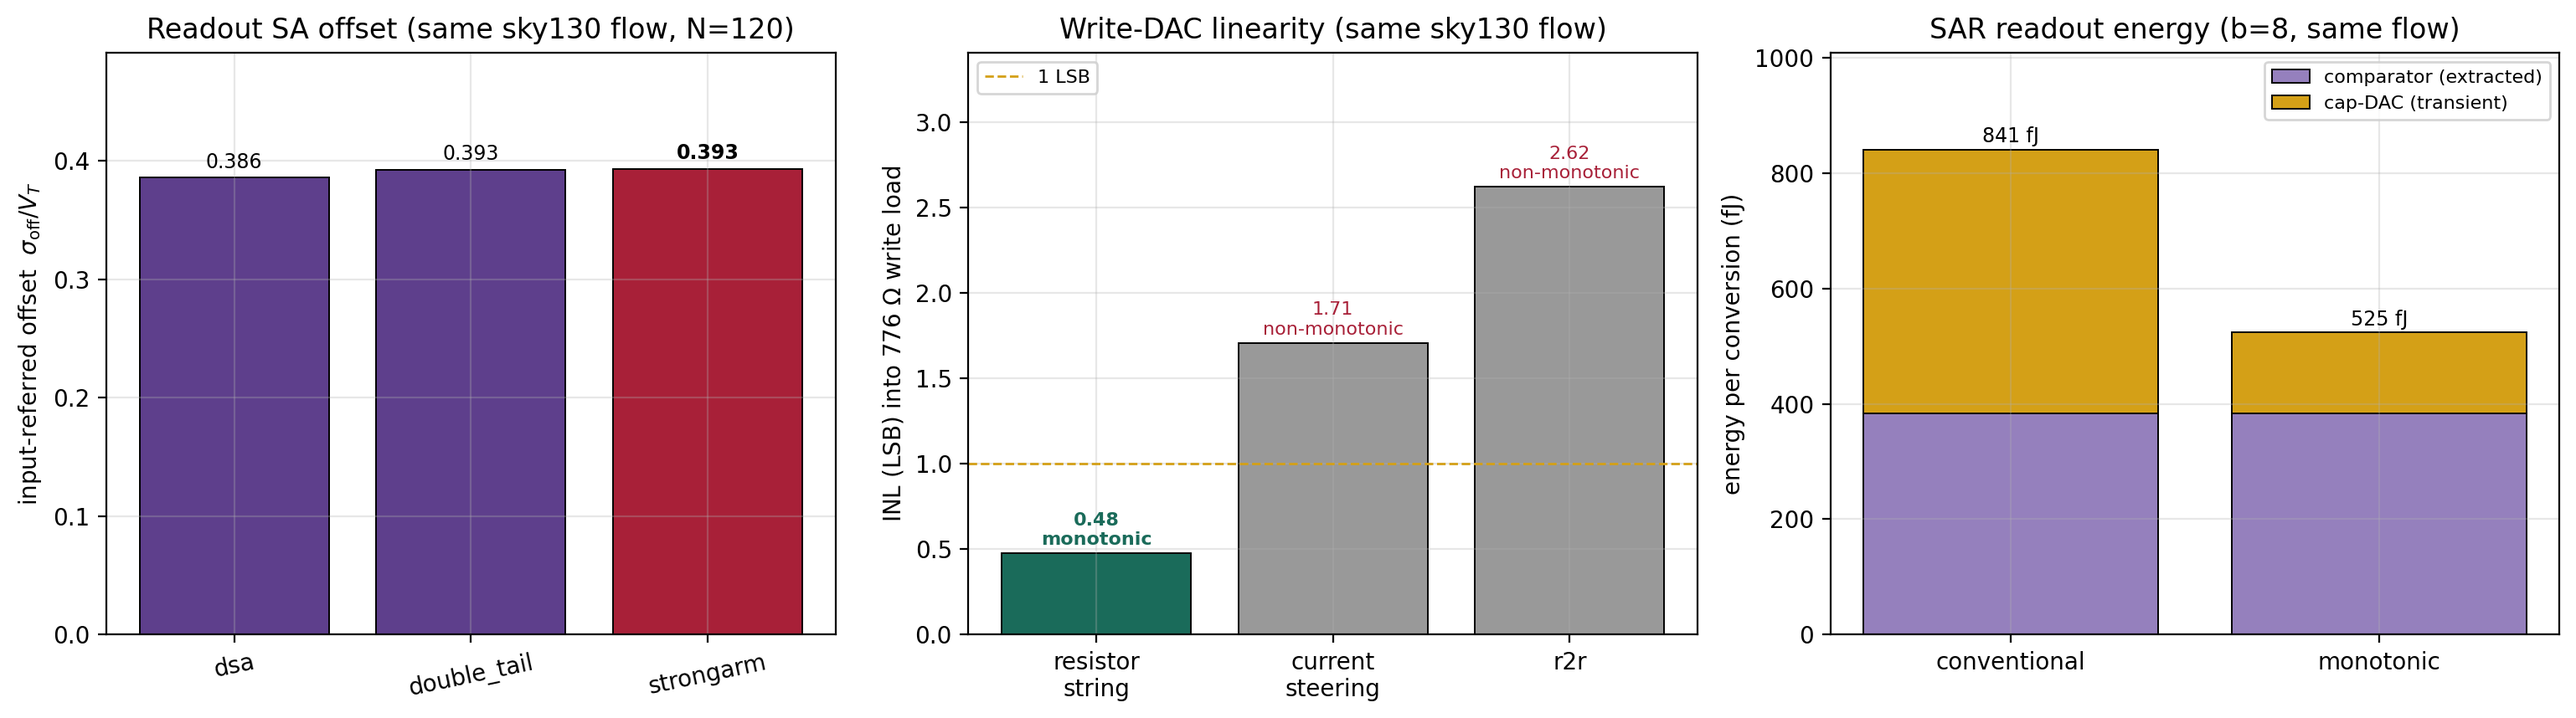
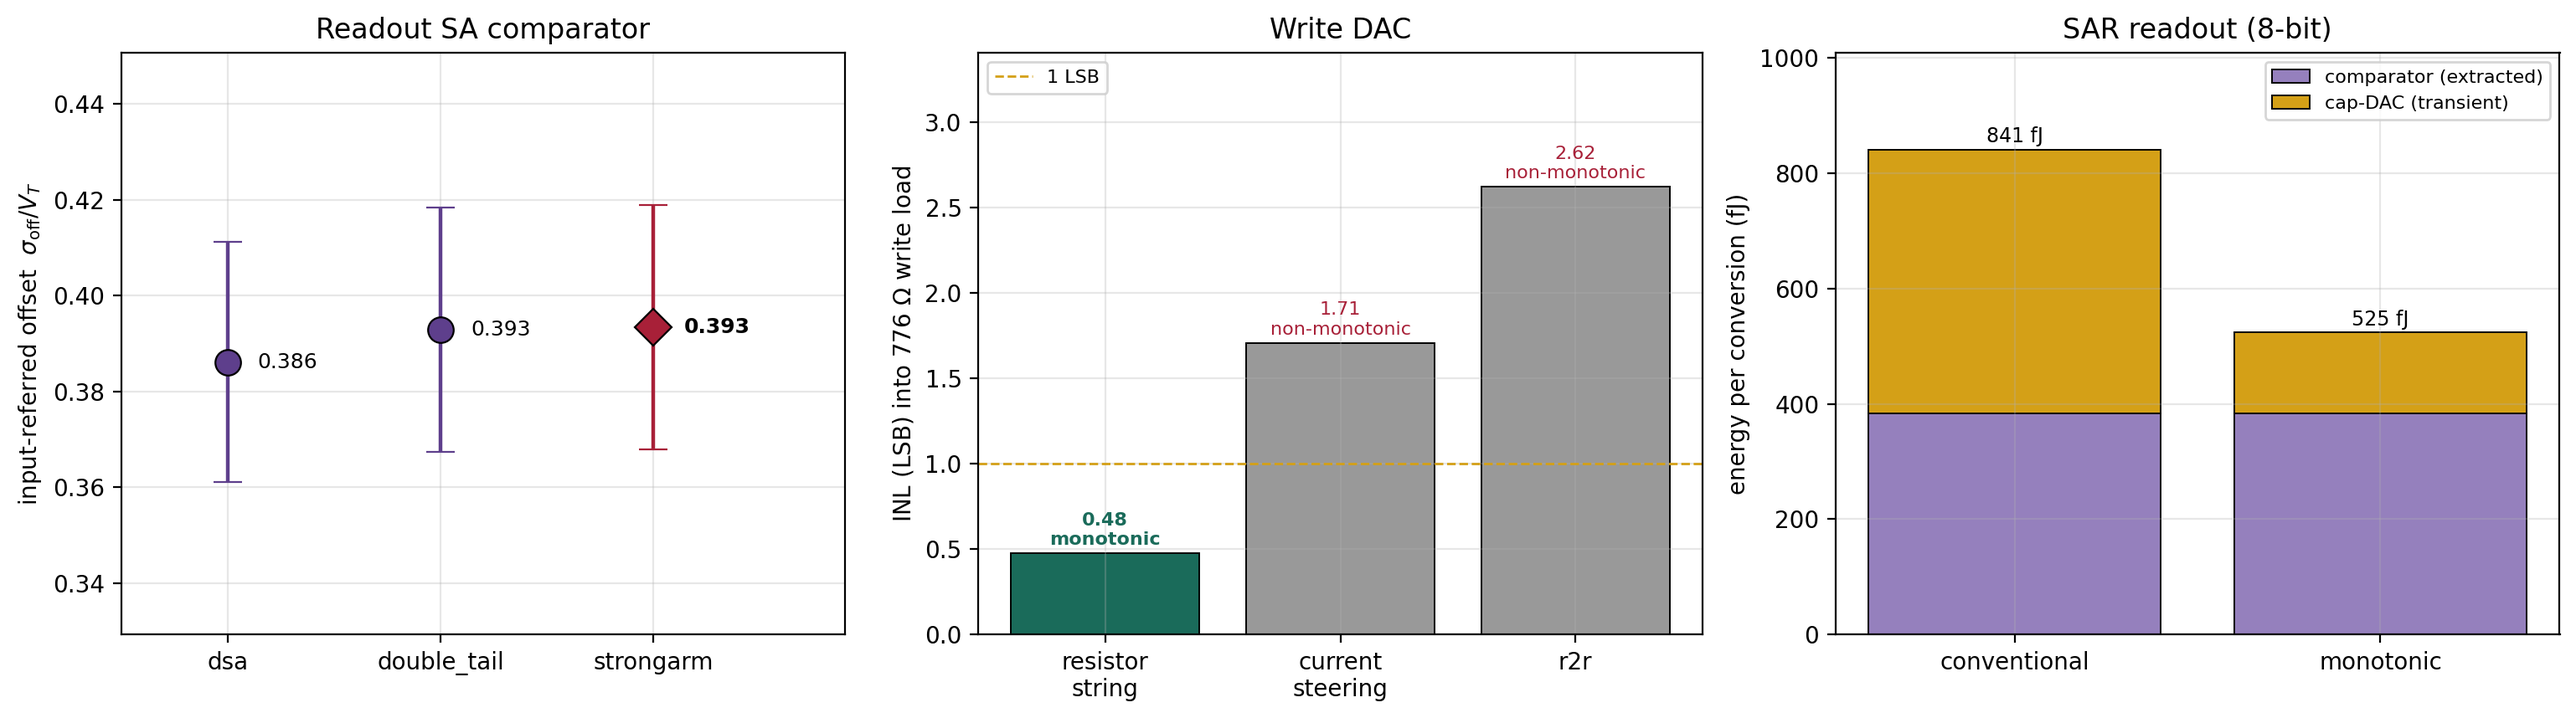
Refine comparison panels: zoomed error-bar point plot for SA + clean titles
Panel (a) was three near-equal bars (0.386/0.393/0.393) that read as flat. Replace
with a zoomed point plot carrying +/-1 s.e. error bars (s.e. of an estimated std =
sigma/sqrt(2(N-1))): the small means are now visible and the overlapping error bars
make the "statistically indistinguishable" finding explicit -- no fabricated gap.
Titles de-drafted to clean noun phrases (Readout SA comparator / Write DAC /
SAR readout (8-bit)); method/N go in the figure caption, not the panel title.

diff --git a/eda/design_survey/plot_comparison.py b/eda/design_survey/plot_comparison.py
@@ -31,18 +31,30 @@ def _ours_color(is_ours):
 
 
 def plot_readout_sa(ax):
+    # The three offsets are within MC noise of each other (~0.39), so bars from zero
+    # read as flat. A zoomed point plot with +/-1 s.e. error bars (s.e. of an estimated
+    # std = sigma/sqrt(2(N-1))) shows the small means AND that they overlap -> the honest
+    # "indistinguishable" message, not a fabricated gap.
     rows = d["readout_sa"]["designs"]
-    labels = [r["design"] for r in rows]
     vals = [r["sigma_offset_over_VT"] for r in rows]
-    cols = [_ours_color(r.get("is_ours")) for r in rows]
-    b = ax.bar(labels, vals, color=cols, edgecolor="black", linewidth=0.7)
-    for r, v in zip(rows, vals):
-        ax.text(labels.index(r["design"]), v + 0.008, f"{v:.3f}", ha="center", fontsize=8.5,
-                fontweight="bold" if r.get("is_ours") else "normal")
+    se = [v / (2 * (r["N"] - 1)) ** 0.5 for v, r in zip(vals, rows)]
+    xs = list(range(len(rows)))
+    for i, r in enumerate(rows):
+        ours = r.get("is_ours")
+        ax.errorbar(i, vals[i], yerr=se[i], fmt=("D" if ours else "o"),
+                    color=_ours_color(ours), ms=11, capsize=6, elinewidth=1.6,
+                    mec="black", mew=0.8, zorder=3)
+        ax.annotate(f"{vals[i]:.3f}", (i, vals[i]), textcoords="offset points",
+                    xytext=(13, 0), va="center", fontsize=9,
+                    fontweight="bold" if ours else "normal")
+    ax.set_xticks(xs)
+    ax.set_xticklabels([r["design"] for r in rows])
+    ax.set_xlim(-0.5, len(rows) - 0.1)
+    lo, hi = min(v - s for v, s in zip(vals, se)), max(v + s for v, s in zip(vals, se))
+    pad = (hi - lo) * 0.55
+    ax.set_ylim(lo - pad, hi + pad)
     ax.set_ylabel(r"input-referred offset  $\sigma_\mathrm{off}/V_T$")
-    ax.set_title("Readout SA offset (same sky130 flow, N=120)")
-    ax.set_ylim(0, max(vals) * 1.25)
-    ax.tick_params(axis="x", labelrotation=12)
+    ax.set_title("Readout SA comparator")
 
 
 def plot_write_dac(ax):
@@ -58,7 +70,7 @@ def plot_write_dac(ax):
                 fontweight="bold" if r.get("is_ours") else "normal")
     ax.axhline(1.0, color=GOLD, ls="--", lw=1, label="1 LSB")
     ax.set_ylabel("INL (LSB) into 776 $\\Omega$ write load")
-    ax.set_title("Write-DAC linearity (same sky130 flow)")
+    ax.set_title("Write DAC")
     ax.set_ylim(0, max(vals) * 1.3)
     ax.legend(fontsize=8, loc="upper left")
 
@@ -76,7 +88,7 @@ def plot_sar(ax):
         ax.text(i, r["E_total_fJ"] + 12, f"{r['E_total_fJ']:.0f} fJ", ha="center", fontsize=8.5)
     ax.set_xticks(list(x)); ax.set_xticklabels(labels)
     ax.set_ylabel("energy per conversion (fJ)")
-    ax.set_title(f"SAR readout energy (b={rows[0]['b']}, same flow)")
+    ax.set_title(f"SAR readout ({rows[0]['b']}-bit)")
     ax.set_ylim(0, max(r["E_total_fJ"] for r in rows) * 1.2)
     ax.legend(fontsize=8, loc="upper right")
 
